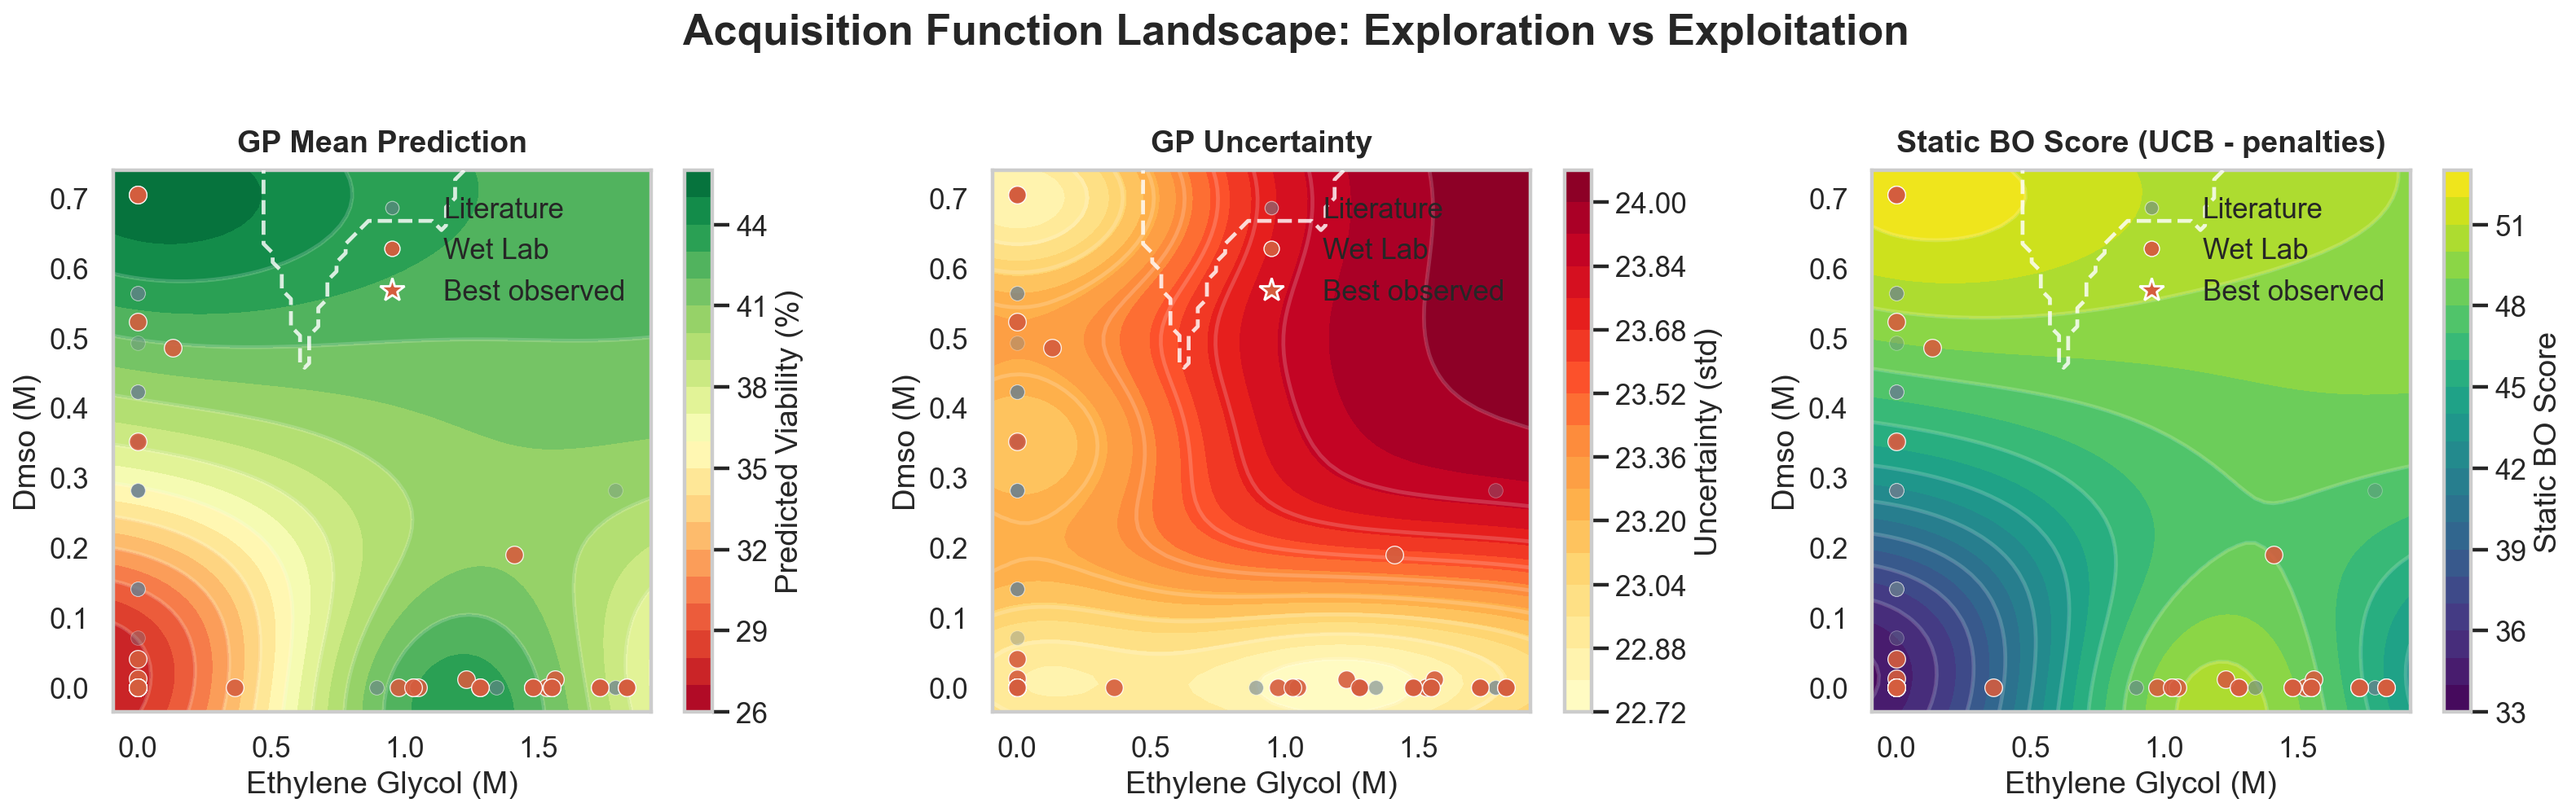
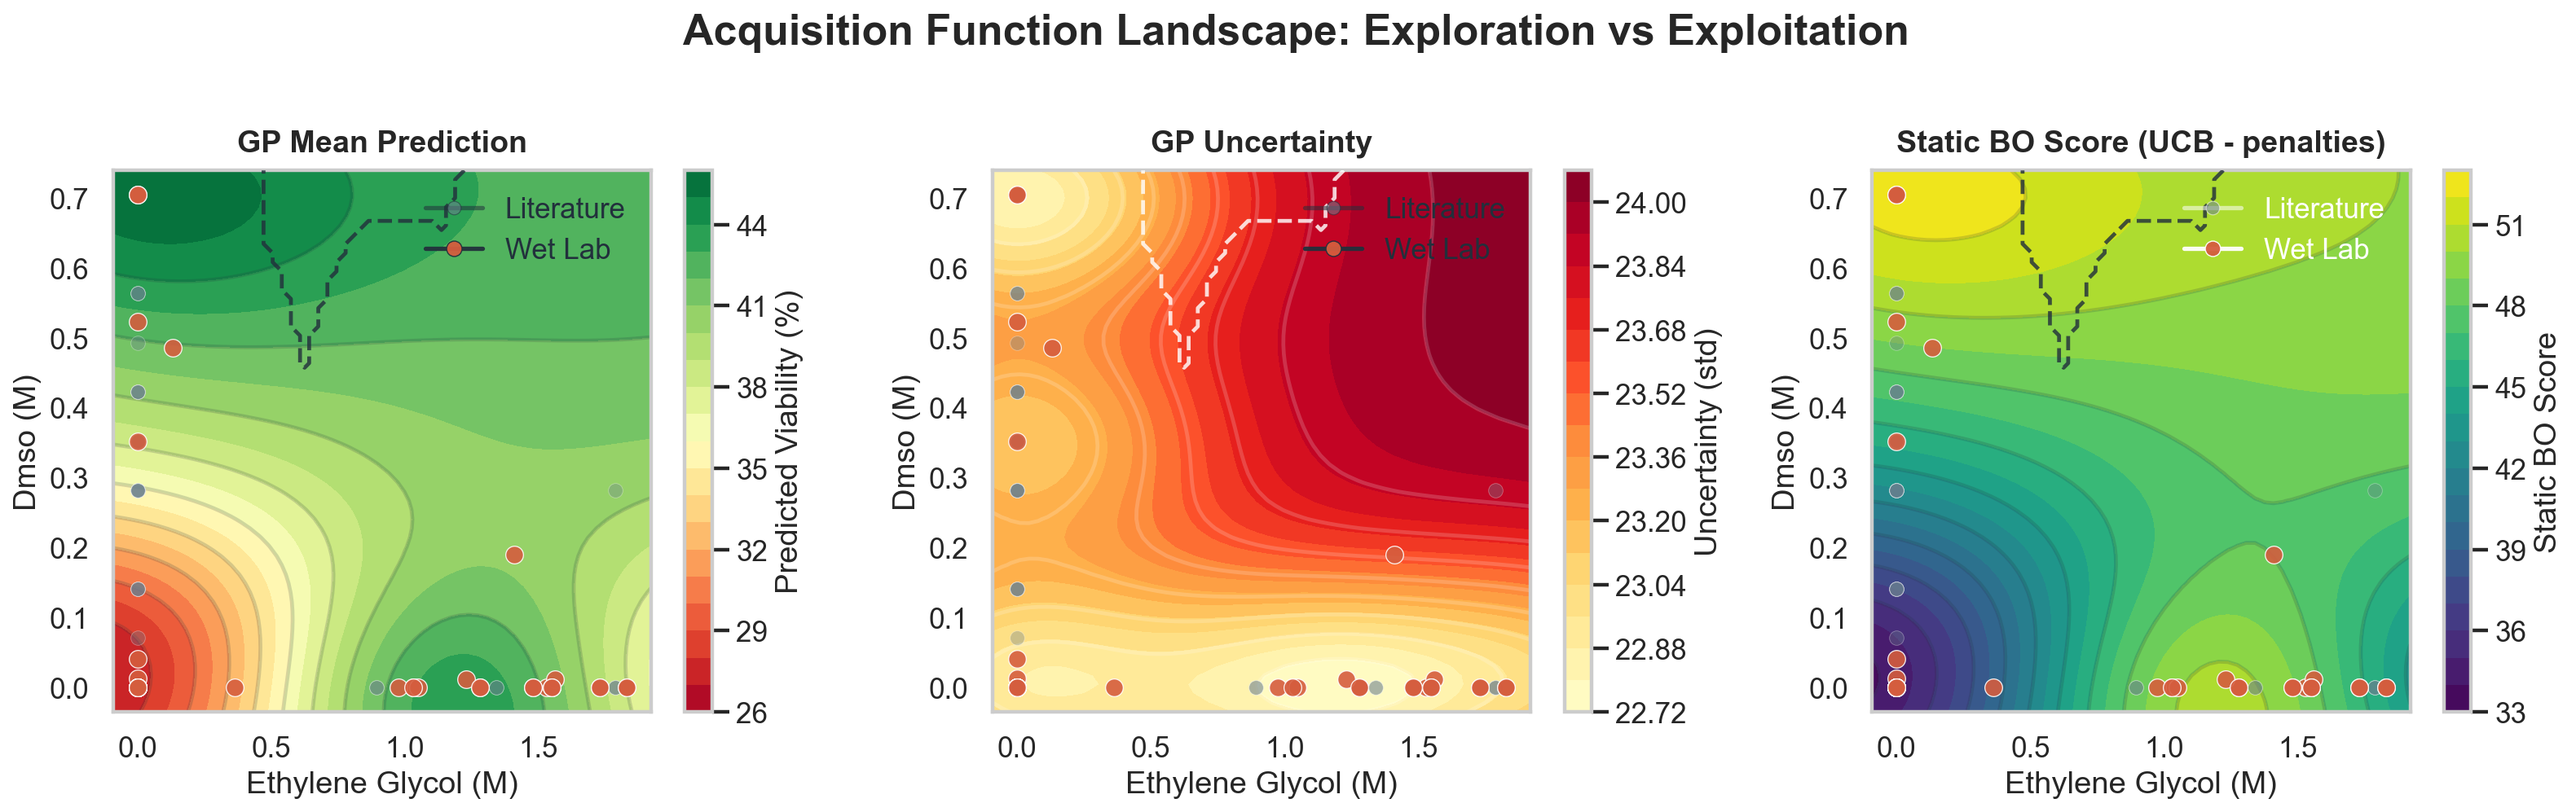
style update

diff --git a/src/06_evaluation_explainability/explainability.py b/src/06_evaluation_explainability/explainability.py
@@ -40,6 +40,7 @@ matplotlib.use('Agg')
 import matplotlib.pyplot as plt
 import matplotlib.colors as mcolors
 from matplotlib.lines import Line2D
+from matplotlib.patches import Patch
 
 try:
     import seaborn as sns
@@ -129,6 +130,11 @@ class ExplainabilityConfig:
     color_literature: str = '#6a7f8f'
     color_wetlab: str = '#d55d3e'
     support_fill: str = '#cfd8df'
+    contour_line_dark: str = '#22303c'
+    contour_line_light: str = '#ffffff'
+    support_diagnostic_legend_scale: float = 1.5
+    interaction_min_axis_balance: float = 0.10
+    interaction_min_occupied_bins: int = 4
 
 
 def load_model_and_data(project_root: str):
@@ -250,24 +256,154 @@ def source_masks(df: pd.DataFrame) -> Dict[str, np.ndarray]:
     }
 
 
-def source_legend_handles(config: ExplainabilityConfig) -> List[Line2D]:
+def source_legend_handles(config: ExplainabilityConfig, edge_color: str = 'white') -> List[Line2D]:
     """Legend handles for literature / wet-lab point overlays."""
     return [
         Line2D([0], [0], marker='o', color='none', markerfacecolor=config.color_literature,
-               markeredgecolor='white', markeredgewidth=0.5, label='Literature', markersize=7, alpha=0.55),
+               markeredgecolor=edge_color, markeredgewidth=0.5, label='Literature', markersize=7, alpha=0.55),
         Line2D([0], [0], marker='o', color='none', markerfacecolor=config.color_wetlab,
-               markeredgecolor='white', markeredgewidth=0.6, label='Wet Lab', markersize=8, alpha=0.95),
+               markeredgecolor=edge_color, markeredgewidth=0.6, label='Wet Lab', markersize=8, alpha=0.95),
     ]
 
 
-def alpha_legend_handles(config: ExplainabilityConfig, base_color: Optional[str] = None) -> List[Line2D]:
+def alpha_legend_handles(config: ExplainabilityConfig, base_color: Optional[str] = None,
+                         marker_scale: float = 1.0) -> List[Line2D]:
     """Legend handles for plots that distinguish sources by alpha rather than color."""
     color = base_color or config.line_primary
     return [
         Line2D([0], [0], marker='o', color='none', markerfacecolor=color,
-               markeredgecolor='white', markeredgewidth=0.5, label='Literature', markersize=7, alpha=0.20),
+               markeredgecolor='white', markeredgewidth=0.5, label='Literature',
+               markersize=7 * marker_scale, alpha=0.20),
         Line2D([0], [0], marker='o', color='none', markerfacecolor=color,
-               markeredgecolor='white', markeredgewidth=0.6, label='Wet Lab', markersize=8, alpha=0.95),
+               markeredgecolor='white', markeredgewidth=0.6, label='Wet Lab',
+               markersize=8 * marker_scale, alpha=0.95),
+    ]
+
+
+def support_diagnostic_density_legend_handles(config: ExplainabilityConfig,
+                                              base_color: Optional[str] = None) -> List[Patch]:
+    """Legend handles that match the filled support-density bands."""
+    color = base_color or config.line_primary
+    return [
+        Patch(facecolor=color, edgecolor='none', alpha=0.30, label='Literature'),
+        Patch(facecolor=color, edgecolor='none', alpha=0.80, label='Wet Lab'),
+    ]
+
+
+def support_diagnostic_legend_kwargs(config: ExplainabilityConfig) -> Dict[str, float]:
+    """Shared, enlarged legend styling for support diagnostics."""
+    scale = max(config.support_diagnostic_legend_scale, 1.0)
+    return {
+        'fontsize': (9 + FONT_BUMP) * scale,
+        'borderpad': 0.35 * scale,
+        'handlelength': 1.8 * scale,
+        'handleheight': 0.8 * scale,
+        'handletextpad': 0.5 * scale,
+        'labelspacing': 0.3 * scale,
+    }
+
+
+def relative_luminance(color: Tuple[float, float, float, float] | Tuple[float, float, float] | str) -> float:
+    """Return the WCAG-style relative luminance for a color."""
+    rgb = np.array(mcolors.to_rgb(color), dtype=float)
+    linear = np.where(
+        rgb <= 0.04045,
+        rgb / 12.92,
+        ((rgb + 0.055) / 1.055) ** 2.4,
+    )
+    return float(np.dot(linear, np.array([0.2126, 0.7152, 0.0722])))
+
+
+def choose_contour_line_color(surface: np.ndarray, cmap_name: str,
+                              config: ExplainabilityConfig) -> str:
+    """Choose white or dark contour overlays from the underlying surface brightness."""
+    finite = np.asarray(surface, dtype=float)
+    finite = finite[np.isfinite(finite)]
+    if finite.size == 0:
+        return config.contour_line_dark
+
+    if np.isclose(finite.min(), finite.max()):
+        sample_positions = np.array([0.5], dtype=float)
+    else:
+        sample_values = np.quantile(finite, [0.2, 0.5, 0.8])
+        sample_positions = (sample_values - finite.min()) / (finite.max() - finite.min())
+
+    cmap = plt.get_cmap(cmap_name)
+    luminance = np.mean([relative_luminance(cmap(float(pos))) for pos in sample_positions])
+    if luminance < 0.42:
+        return config.contour_line_light
+    return config.contour_line_dark
+
+
+def choose_foreground_color_for_surface(surface: np.ndarray, cmap_name: str,
+                                        config: ExplainabilityConfig,
+                                        loc: str = 'upper right') -> str:
+    """Choose a contrasting foreground color from the local surface background."""
+    array = np.asarray(surface, dtype=float)
+    if array.ndim != 2:
+        return choose_contour_line_color(surface, cmap_name, config)
+
+    row_extent = max(1, int(np.ceil(array.shape[0] * 0.30)))
+    col_extent = max(1, int(np.ceil(array.shape[1] * 0.35)))
+    row_slice = slice(0, row_extent) if 'upper' in loc else slice(array.shape[0] - row_extent, array.shape[0])
+    col_slice = slice(array.shape[1] - col_extent, array.shape[1]) if 'right' in loc else slice(0, col_extent)
+    local_surface = array[row_slice, col_slice]
+    return choose_contour_line_color(local_surface, cmap_name, config)
+
+
+def style_legend_for_surface(legend, surface: np.ndarray, cmap_name: str,
+                             config: ExplainabilityConfig, loc: str = 'upper right'):
+    """Apply local background-aware legend styling for contour panels."""
+    foreground = choose_foreground_color_for_surface(surface, cmap_name, config, loc=loc)
+    for text in legend.get_texts():
+        text.set_color(foreground)
+    for handle in legend.legend_handles:
+        if hasattr(handle, 'set_markeredgecolor'):
+            handle.set_markeredgecolor(foreground)
+        if hasattr(handle, 'set_color') and isinstance(handle, Line2D) and handle.get_linestyle() != 'None':
+            handle.set_color(foreground)
+
+
+def pair_surface_balance(surface: np.ndarray) -> float:
+    """Measure whether both axes materially influence the surface."""
+    array = np.asarray(surface, dtype=float)
+    row_effect = float(np.std(array.mean(axis=1)))
+    col_effect = float(np.std(array.mean(axis=0)))
+    return min(row_effect, col_effect) / (max(row_effect, col_effect) + 1e-9)
+
+
+def pair_support_occupancy(x_values: np.ndarray, y_values: np.ndarray) -> int:
+    """Estimate how many coarse 2D support bins are occupied by observed points."""
+    x_values = np.asarray(x_values, dtype=float)
+    y_values = np.asarray(y_values, dtype=float)
+    mask = np.isfinite(x_values) & np.isfinite(y_values)
+    if not np.any(mask):
+        return 0
+    points = np.column_stack([x_values[mask], y_values[mask]])
+    x_bins = np.unique(np.quantile(points[:, 0], np.linspace(0, 1, 6)))
+    y_bins = np.unique(np.quantile(points[:, 1], np.linspace(0, 1, 6)))
+    if len(x_bins) < 2 or len(y_bins) < 2:
+        return 1
+    hist, _, _ = np.histogram2d(points[:, 0], points[:, 1], bins=[x_bins, y_bins])
+    return int(np.sum(hist > 0))
+
+
+def select_interaction_pairs(model, scaler, X: np.ndarray, feature_names: Sequence[str],
+                             importance_df: pd.DataFrame, df: pd.DataFrame,
+                             is_composite: bool, config: ExplainabilityConfig):
+    """Choose interaction pairs as rank1×rank2, rank1×rank3, and rank1×rank4."""
+    top_features = importance_df.head(4)['feature'].tolist()
+    resolved = [
+        (feat, resolve_feature_index(feat, feature_names), resolve_feature_full_name(feat, feature_names))
+        for feat in top_features
+    ]
+    resolved = [(feat, idx, full) for feat, idx, full in resolved if idx >= 0]
+    if len(resolved) < 2:
+        return []
+    anchor = resolved[0]
+    return [
+        (anchor, resolved[idx])
+        for idx in range(1, min(len(resolved), config.n_top_pairs + 1))
     ]
 
 
@@ -740,18 +876,9 @@ def plot_interaction_contours(model, scaler, X: np.ndarray, feature_names: Seque
                               output_dir: str, is_composite: bool,
                               config: ExplainabilityConfig):
     """Create support-aware interaction contour plots for the strongest feature pairs."""
-    top_features = importance_df.head(4)['feature'].tolist()
-    resolved = [
-        (feat, resolve_feature_index(feat, feature_names), resolve_feature_full_name(feat, feature_names))
-        for feat in top_features
-    ]
-    resolved = [(feat, idx, full) for feat, idx, full in resolved if idx >= 0]
-
-    pairs = []
-    for i in range(len(resolved)):
-        for j in range(i + 1, len(resolved)):
-            pairs.append((resolved[i], resolved[j]))
-    pairs = pairs[:config.n_top_pairs]
+    pairs = select_interaction_pairs(model, scaler, X, feature_names, importance_df, df, is_composite, config)
+    if not pairs:
+        return
 
     fig, axes = plt.subplots(1, len(pairs), figsize=(6.4 * len(pairs), 5.9))
     axes = np.atleast_1d(axes)
@@ -778,8 +905,9 @@ def plot_interaction_contours(model, scaler, X: np.ndarray, feature_names: Seque
 
         support_mask = infer_support_mask_2d(X1, X2, X[:, idx1], X[:, idx2], config)
         contour = ax.contourf(X1, X2, Z, levels=18, cmap=viability_cmap)
-        ax.contour(X1, X2, Z, levels=9, colors='white', linewidths=2, alpha=0.22)
-        ax.contour(X1, X2, support_mask.astype(float), levels=[0.5], colors='white',
+        contour_line_color = choose_contour_line_color(Z, viability_cmap, config)
+        ax.contour(X1, X2, Z, levels=9, colors=contour_line_color, linewidths=2, alpha=0.22)
+        ax.contour(X1, X2, support_mask.astype(float), levels=[0.5], colors=contour_line_color,
                    linewidths=2, alpha=0.82, linestyles='--', zorder=5)
         plt.colorbar(contour, ax=ax, label='Predicted Viability (%)')
 
@@ -789,7 +917,15 @@ def plot_interaction_contours(model, scaler, X: np.ndarray, feature_names: Seque
         ax.set_xlabel(f'{clean_feature_name(full1)} ({get_unit(full1)})')
         ax.set_ylabel(f'{clean_feature_name(full2)} ({get_unit(full2)})')
         ax.set_title(f'{clean_feature_name(full1)} × {clean_feature_name(full2)}', fontsize=13 + FONT_BUMP, fontweight='bold', pad=10)
-        ax.legend(handles=source_legend_handles(config), loc='upper right')
+        legend_loc = 'upper right'
+        legend = ax.legend(
+            handles=source_legend_handles(
+                config,
+                edge_color=choose_foreground_color_for_surface(Z, viability_cmap, config, loc=legend_loc),
+            ),
+            loc=legend_loc,
+        )
+        style_legend_for_surface(legend, Z, viability_cmap, config, loc=legend_loc)
 
     plt.suptitle('Support-Aware Ingredient Interaction Effects on Cell Viability',
                  fontsize=19 + FONT_BUMP, fontweight='bold', y=0.985)
@@ -870,13 +1006,14 @@ def plot_acquisition_landscape(model, scaler, X: np.ndarray, y: np.ndarray,
     contour2 = axes[1].contourf(X1, X2, Z_std, levels=18, cmap=config.cmap_uncertainty)
     contour3 = axes[2].contourf(X1, X2, Z_score, levels=18, cmap=config.cmap_acquisition)
 
-    for ax, contour, surface, title, label in [
+    for ax, contour, surface, title, label, cmap_name in [
         (
             axes[0],
             contour1,
             Z_mean,
             'GP Mean Prediction',
             'Predicted Viability (%)',
+            config.cmap_viability,
         ),
         (
             axes[1],
@@ -884,6 +1021,7 @@ def plot_acquisition_landscape(model, scaler, X: np.ndarray, y: np.ndarray,
             Z_std,
             'GP Uncertainty',
             'Uncertainty (std)',
+            config.cmap_uncertainty,
         ),
         (
             axes[2],
@@ -891,10 +1029,12 @@ def plot_acquisition_landscape(model, scaler, X: np.ndarray, y: np.ndarray,
             Z_score,
             'Static BO Score (UCB - penalties)',
             'Static BO Score',
+            config.cmap_acquisition,
         ),
     ]:
-        ax.contour(X1, X2, surface, levels=9, colors='white', linewidths=2, alpha=0.18)
-        ax.contour(X1, X2, support_mask.astype(float), levels=[0.5], colors='white',
+        contour_line_color = choose_contour_line_color(surface, cmap_name, config)
+        ax.contour(X1, X2, surface, levels=9, colors=contour_line_color, linewidths=2, alpha=0.18)
+        ax.contour(X1, X2, support_mask.astype(float), levels=[0.5], colors=contour_line_color,
                    linewidths=2, alpha=0.82, linestyles='--', zorder=5)
         overlay_source_points(ax, X[:, idx1], X[:, idx2], df, config, alpha_literature=0.35, alpha_wetlab=0.9)
         ax.set_xlim(x_min, x_max)
@@ -903,15 +1043,15 @@ def plot_acquisition_landscape(model, scaler, X: np.ndarray, y: np.ndarray,
         ax.set_xlabel(f'{clean_feature_name(full1)} ({get_unit(full1)})')
         ax.set_ylabel(f'{clean_feature_name(full2)} ({get_unit(full2)})')
         ax.set_title(title, fontsize=14 + FONT_BUMP, fontweight='bold', pad=10)
-
-    best_idx = int(np.argmax(y))
-    for ax in axes:
-        ax.scatter(X[best_idx, idx1], X[best_idx, idx2], c=config.color_wetlab, s=160,
-                   marker='*', edgecolors='white', linewidths=2, zorder=9)
-        ax.legend(handles=source_legend_handles(config) + [
-            Line2D([0], [0], marker='*', color='none', markerfacecolor=config.color_wetlab,
-                   markeredgecolor='white', markeredgewidth=1.2, label='Best observed', markersize=13)
-        ], loc='upper right')
+        legend_loc = 'upper right'
+        legend = ax.legend(
+            handles=source_legend_handles(
+                config,
+                edge_color=choose_foreground_color_for_surface(surface, cmap_name, config, loc=legend_loc),
+            ),
+            loc=legend_loc,
+        )
+        style_legend_for_surface(legend, surface, cmap_name, config, loc=legend_loc)
 
     plt.suptitle('Acquisition Function Landscape: Exploration vs Exploitation',
                  fontsize=20 + FONT_BUMP, fontweight='bold', y=0.985)
@@ -1045,28 +1185,32 @@ def plot_support_diagnostics(X: np.ndarray, y: np.ndarray, feature_names: Sequen
         wetlab_values = values[masks['wetlab']]
         support_color = config.line_primary
         if HAS_SEABORN:
-            sns.kdeplot(x=literature_values, ax=ax, fill=True, alpha=0.20,
+            sns.kdeplot(x=literature_values, ax=ax, fill=True, alpha=0.3,
                         color=support_color, linewidth=1.2, label='Literature')
             if len(wetlab_values) >= 2:
-                sns.kdeplot(x=wetlab_values, ax=ax, fill=True, alpha=0.95,
+                sns.kdeplot(x=wetlab_values, ax=ax, fill=True, alpha=0.8,
                             color=support_color, linewidth=1.2, label='Wet Lab')
         else:
-            ax.hist(literature_values, bins=24, density=True, alpha=0.20,
+            ax.hist(literature_values, bins=24, density=True, alpha=0.3,
                     color=support_color, label='Literature')
             if len(wetlab_values) >= 1:
-                ax.hist(wetlab_values, bins=min(18, max(6, len(wetlab_values))), density=True, alpha=0.95,
+                ax.hist(wetlab_values, bins=min(18, max(6, len(wetlab_values))), density=True, alpha=0.8,
                         color=support_color, label='Wet Lab')
         ax.set_xlim(x_min, x_max)
         ax.set_xlabel(f'{clean_feature_name(full)} ({get_unit(full)})')
         ax.set_ylabel('Observed density')
         ax.set_title(f'Support: {clean_feature_name(full)}', fontsize=13 + FONT_BUMP, fontweight='bold', pad=10)
-        ax.legend(handles=alpha_legend_handles(config, base_color=support_color), loc='upper right')
+        ax.legend(
+            handles=support_diagnostic_density_legend_handles(config, base_color=support_color),
+            loc='upper right',
+            **support_diagnostic_legend_kwargs(config),
+        )
 
-    scatter = ax3.scatter(X[:, idx1], X[:, idx2], c=y, cmap=config.cmap_viability, s=100,
+    scatter = ax3.scatter(X[:, idx1], X[:, idx2], c=y, cmap=config.cmap_viability, s=180,
                           alpha=0.20, edgecolors='white', linewidths=0.35)
     if masks['wetlab'].any():
         ax3.scatter(X[masks['wetlab'], idx1], X[masks['wetlab'], idx2], c=y[masks['wetlab']],
-                    cmap=config.cmap_viability, s=180, alpha=0.95, edgecolors='white', linewidths=0.6)
+                    cmap=config.cmap_viability, s=300, alpha=0.95, edgecolors='black', linewidths=0.6)
     x_min, x_max = quantile_range(X[:, idx1], config, weights=weights)
     y_min, y_max = quantile_range(X[:, idx2], config, weights=weights)
     ax3.set_xlim(x_min, x_max)
@@ -1076,7 +1220,11 @@ def plot_support_diagnostics(X: np.ndarray, y: np.ndarray, feature_names: Sequen
     ax3.set_ylabel(f'{clean_feature_name(full2)} ({get_unit(full2)})')
     ax3.set_title(f'Observed Support Map: {clean_feature_name(full1)} × {clean_feature_name(full2)}',
                   fontsize=14 + FONT_BUMP, fontweight='bold', pad=10)
-    ax3.legend(handles=alpha_legend_handles(config), loc='upper right')
+    ax3.legend(
+        handles=alpha_legend_handles(config, marker_scale=config.support_diagnostic_legend_scale),
+        loc='upper right',
+        **support_diagnostic_legend_kwargs(config),
+    )
 
     plt.suptitle('Support Diagnostics', fontsize=19 + FONT_BUMP, fontweight='bold', y=0.985)
     plt.tight_layout(rect=(0, 0, 1, 0.975))
